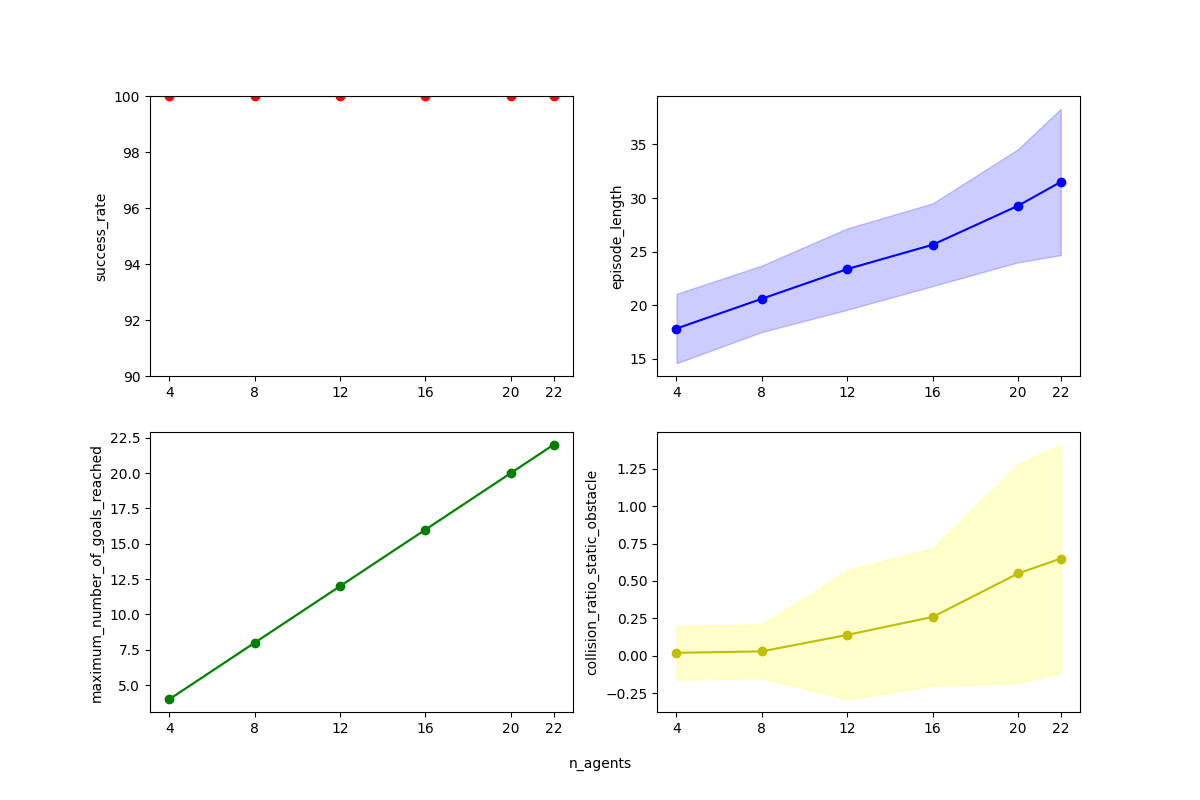
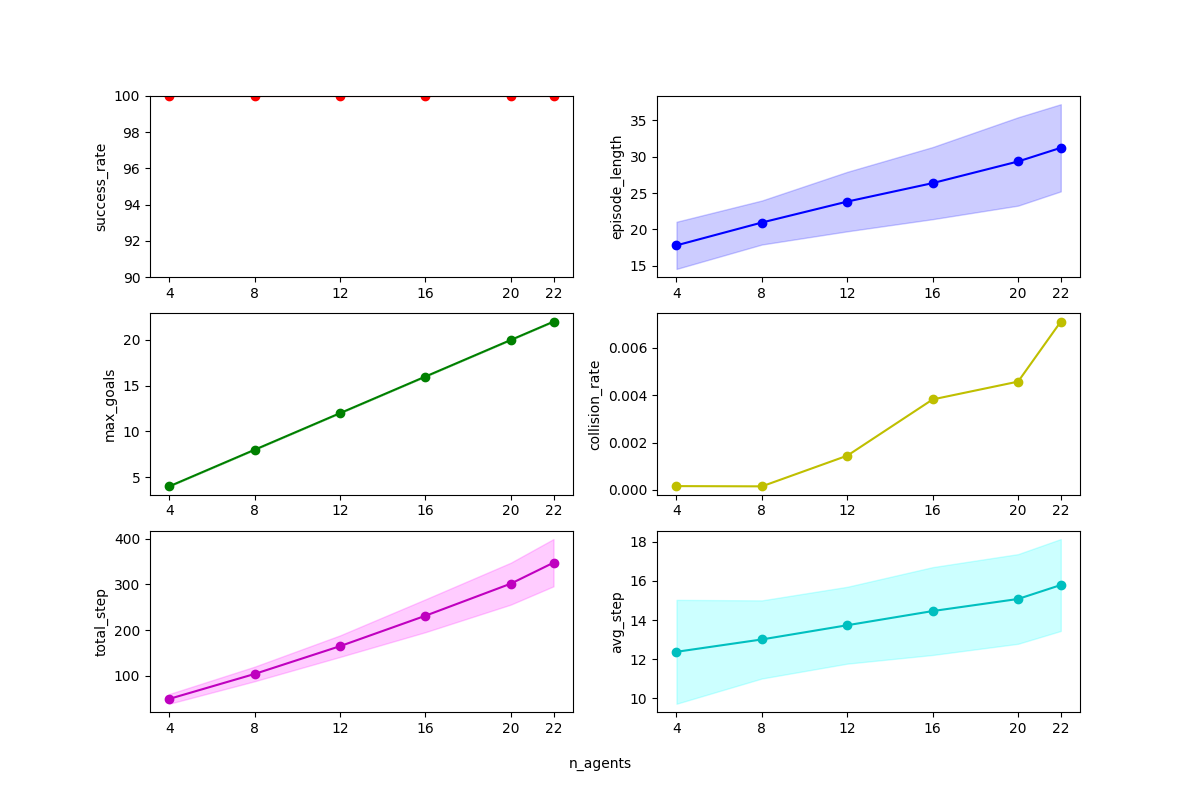
Add csv results | Add code to plot all the results

diff --git a/results/simple_warehouse_env/SCRIMP/plot_results.py b/results/simple_warehouse_env/SCRIMP/plot_results.py
@@ -5,7 +5,7 @@ import matplotlib.pyplot as plt
 df = pd.read_csv('SCRIMP.csv')
 
 # Create a figure with 3 subplots
-fig, axs = plt.subplots(2, 2, figsize=(12, 8))
+fig, axs = plt.subplots(3, 2, figsize=(12, 8))
 
 # Plot the data for success_rate
 axs[0][0].plot(df['n_agents'], df['success_rate'], 'ro-')
@@ -15,21 +15,31 @@ axs[0][0].set_xticks([4, 8, 12, 16, 20, 22])
 
 # Plot the data for episode_length
 axs[0][1].plot(df['n_agents'], df['episode_length'], 'bo-')
-axs[0][1].fill_between(df['n_agents'], df['episode_length'] - df['el_std'], df['episode_length'] + df['el_std'], alpha=0.2, color='blue')
+axs[0][1].fill_between(df['n_agents'], df['episode_length'] - df['episode_length_std'], df['episode_length'] + df['episode_length_std'], alpha=0.2, color='blue')
 axs[0][1].set_ylabel('episode_length')
 axs[0][1].set_xticks([4, 8, 12, 16, 20, 22])
 
-# Plot the data for maximum_number_of_goals_reached
-axs[1][0].plot(df['n_agents'], df['maximum_number_of_goals_reached'], 'go-')
-axs[1][0].fill_between(df['n_agents'], df['maximum_number_of_goals_reached'] - df['mr_std'], df['maximum_number_of_goals_reached'] + df['mr_std'], alpha=0.2, color='green')
-axs[1][0].set_ylabel('maximum_number_of_goals_reached')
+# Plot the data for max_goals
+axs[1][0].plot(df['n_agents'], df['max_goals'], 'go-')
+axs[1][0].fill_between(df['n_agents'], df['max_goals'] - df['max_goals_std'], df['max_goals'] + df['max_goals_std'], alpha=0.2, color='green')
+axs[1][0].set_ylabel('max_goals')
 axs[1][0].set_xticks([4, 8, 12, 16, 20, 22])
 
-# Plot the data for collision_ratio_static_obstacle
-axs[1][1].plot(df['n_agents'], df['collision_ratio_static_obstacle'], 'yo-')
-axs[1][1].fill_between(df['n_agents'], df['collision_ratio_static_obstacle'] - df['co_std'], df['collision_ratio_static_obstacle'] + df['co_std'], alpha=0.2, color='yellow')
-axs[1][1].set_ylabel('collision_ratio_static_obstacle')
+# Plot the data for collision_rate
+axs[1][1].plot(df['n_agents'], df['collision_rate'], 'yo-')
+# axs[1][1].fill_between(df['n_agents'], df['collision_rate'] - df['co_std'], df['collision_rate'] + df['co_std'], alpha=0.2, color='yellow')
+axs[1][1].set_ylabel('collision_rate')
 axs[1][1].set_xticks([4, 8, 12, 16, 20, 22])
+
+axs[2][0].plot(df['n_agents'], df['total_step'], 'mo-')
+axs[2][0].fill_between(df['n_agents'], df['total_step'] - df['total_step_std'], df['total_step'] + df['total_step_std'], alpha=0.2, color='magenta')
+axs[2][0].set_ylabel('total_step')
+axs[2][0].set_xticks([4, 8, 12, 16, 20, 22])
+
+axs[2][1].plot(df['n_agents'], df['avg_step'], 'co-')
+axs[2][1].fill_between(df['n_agents'], df['avg_step'] - df['avg_step_std'], df['avg_step'] + df['avg_step_std'], alpha=0.2, color='cyan')
+axs[2][1].set_ylabel('avg_step')
+axs[2][1].set_xticks([4, 8, 12, 16, 20, 22])
 
 # Set the x-axis label
 fig.text(0.5, 0.04, 'n_agents', ha='center')

diff --git a/results/simple_warehouse_env/plot_results.py b/results/simple_warehouse_env/plot_results.py
@@ -1,0 +1,49 @@
+import os
+import pandas as pd
+import matplotlib.pyplot as plt
+from math import ceil
+
+colors = ['r', 'g', 'b', 'orange', 'y', 'm', 'c', 'k', 'w']
+
+def get_coordinates(n):
+    coordinates = []
+    for i in range(ceil(n/2)):
+        for j in range(ceil(n/2)):
+            coordinates.append((i, j))
+    return coordinates
+
+
+def plot_models(model_names, features):
+    n_agents = features[0]
+    features = features[1:]
+    num_features = len(features)
+    fig, ax = plt.subplots(nrows=2, ncols=3, figsize=(18, 10))
+    coords = get_coordinates(num_features)
+
+    print(coords)
+    if num_features == 1:
+        ax = [ax]
+    for i, feature in enumerate(features):
+        for j, model_name in enumerate(model_names):
+            file_path = os.path.join(model_name, f"{model_name}.csv")
+            print(file_path)
+            if os.path.exists(file_path):
+                df = pd.read_csv(file_path)
+                
+                # check if feature exists
+                if feature not in df.columns:
+                    print(f"Feature {feature} not found in {model_name}")
+                    continue
+
+                ax[coords[i]].plot(df[n_agents], df[feature], 'o-', label=model_name, color=colors[j])
+        ax[coords[i]].set_xlabel(n_agents)
+        ax[coords[i]].set_ylabel(feature)
+        ax[coords[i]].set_xticks(df[n_agents])
+        ax[coords[i]].set_title(f"{feature} Comparison")
+        ax[coords[i]].legend()
+    plt.show()
+
+if __name__ == "__main__":
+    models = ['DCC', 'PRIMAL_256', 'SCRIMP', 'AB-MAPPER']
+    features = ['n_agents', 'success_rate', 'episode_length', 'total_step', 'collision_rate', 'extra_time', 'avg_step']
+    plot_models(models, features)

diff --git a/results/simple_warehouse_env/PRIMAL_256/plot_results.py b/results/simple_warehouse_env/PRIMAL_256/plot_results.py
@@ -2,36 +2,35 @@ import pandas as pd
 import matplotlib.pyplot as plt
 
 # Read the CSV file into a pandas DataFrame
-df = pd.read_csv('DCC.csv')
+df = pd.read_csv('PRIMAL_256.csv')
 
 # Create a figure with 3 subplots
-fig, axs = plt.subplots(3, 2, figsize=(12, 8))
+fig, axs = plt.subplots(3, 2, figsize=(18, 8))
 
 # Plot the data for success_rate
 axs[0][0].plot(df['n_agents'], df['success_rate'], 'ro-')
 axs[0][0].set_ylabel('success_rate')
-axs[0][0].set_ylim(90, 100)
 axs[0][0].set_xticks([4, 8, 12, 16, 20, 22])
 
 # Plot the data for episode_length
-axs[0][1].plot(df['n_agents'], df['episode_length'], 'bo-')
+axs[0][1].plot(df['n_agents'], df['episode_length'], 'go-')
 axs[0][1].set_ylabel('episode_length')
 axs[0][1].set_xticks([4, 8, 12, 16, 20, 22])
 
-# Plot the data for total_step
-axs[1][0].plot(df['n_agents'], df['total_step'], 'mo-')
-axs[1][0].set_ylabel('total_step')
+# Plot the data for average_time
+axs[1][0].plot(df['n_agents'], df['avg_step'], 'bo-')
+axs[1][0].set_ylabel('avg_step')
 axs[1][0].set_xticks([4, 8, 12, 16, 20, 22])
 
-# Plot the data for avg_step
-axs[1][1].plot(df['n_agents'], df['avg_step'], 'yo-')
-axs[1][1].set_ylabel('avg_step')
+
+# Plot the data for total_step
+axs[1][1].plot(df['n_agents'], df['total_step'], 'yo-')
+axs[1][1].set_ylabel('total_step')
 axs[1][1].set_xticks([4, 8, 12, 16, 20, 22])
 
-
-# Plot the data for communication_times
-axs[2][0].plot(df['n_agents'], df['communication_times'], 'go-')
-axs[2][0].set_ylabel('communication_times')
+# Plot the data for collision_rate
+axs[2][0].plot(df['n_agents'], df['collision_rate'], 'mo-')
+axs[2][0].set_ylabel('collision_rate')
 axs[2][0].set_xticks([4, 8, 12, 16, 20, 22])
 
 

diff --git a/results/simple_warehouse_env/AB-MAPPER/plot_results.py b/results/simple_warehouse_env/AB-MAPPER/plot_results.py
@@ -1,0 +1,45 @@
+import pandas as pd
+import matplotlib.pyplot as plt
+
+# Read the CSV file into a pandas DataFrame
+df = pd.read_csv('AB-MAPPER.csv')
+
+# Create a figure with 3 subplots
+fig, axs = plt.subplots(3, 2, figsize=(18, 8))
+
+# Plot the data for success_rate
+axs[0][0].plot(df['n_agents'], df['success_rate'], 'ro-')
+axs[0][0].set_ylabel('success_rate')
+axs[0][0].set_xticks([4, 8, 12, 16, 20, 22])
+
+# Plot the data for episode_length
+axs[0][1].plot(df['n_agents'], df['episode_length'], 'go-')
+axs[0][1].set_ylabel('episode_length')
+axs[0][1].set_xticks([4, 8, 12, 16, 20, 22])
+
+# Plot the data for average_time
+axs[1][0].plot(df['n_agents'], df['avg_step'], 'bo-')
+axs[1][0].set_ylabel('avg_step')
+axs[1][0].set_xticks([4, 8, 12, 16, 20, 22])
+
+
+# Plot the data for total_step
+axs[1][1].plot(df['n_agents'], df['total_step'], 'yo-')
+axs[1][1].set_ylabel('total_step')
+axs[1][1].set_xticks([4, 8, 12, 16, 20, 22])
+
+# Plot the data for collision_rate
+axs[2][0].plot(df['n_agents'], df['collision_rate'], 'mo-')
+axs[2][0].set_ylabel('collision_rate')
+axs[2][0].set_xticks([4, 8, 12, 16, 20, 22])
+
+# Plot the data for extra_time
+axs[2][1].plot(df['n_agents'], df['extra_time'], 'co-')
+axs[2][1].set_ylabel('extra_time')
+axs[2][1].set_xticks([4, 8, 12, 16, 20, 22])
+
+# Set the x-axis label
+fig.text(0.5, 0.04, 'n_agents', ha='center')
+
+# Show the plot
+plt.show()
